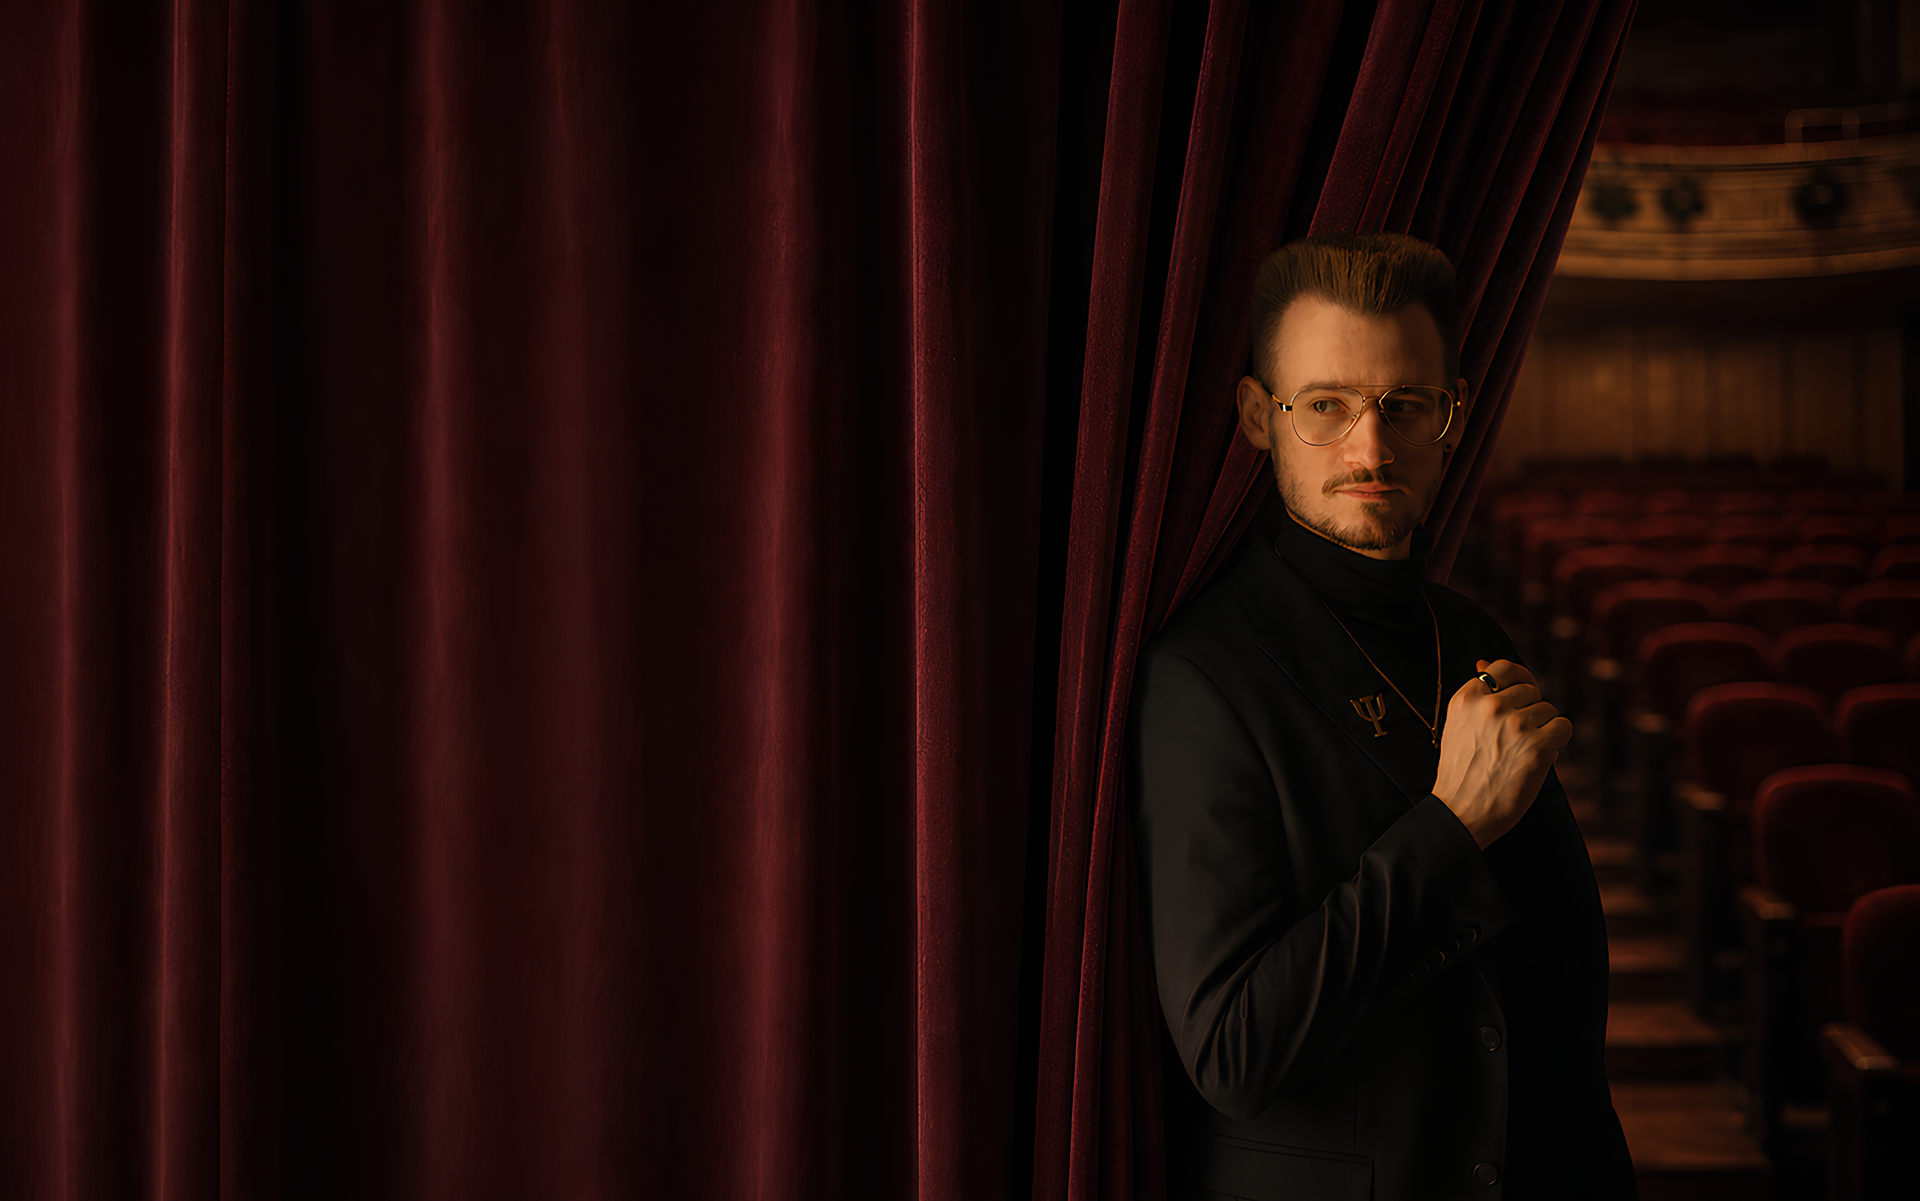
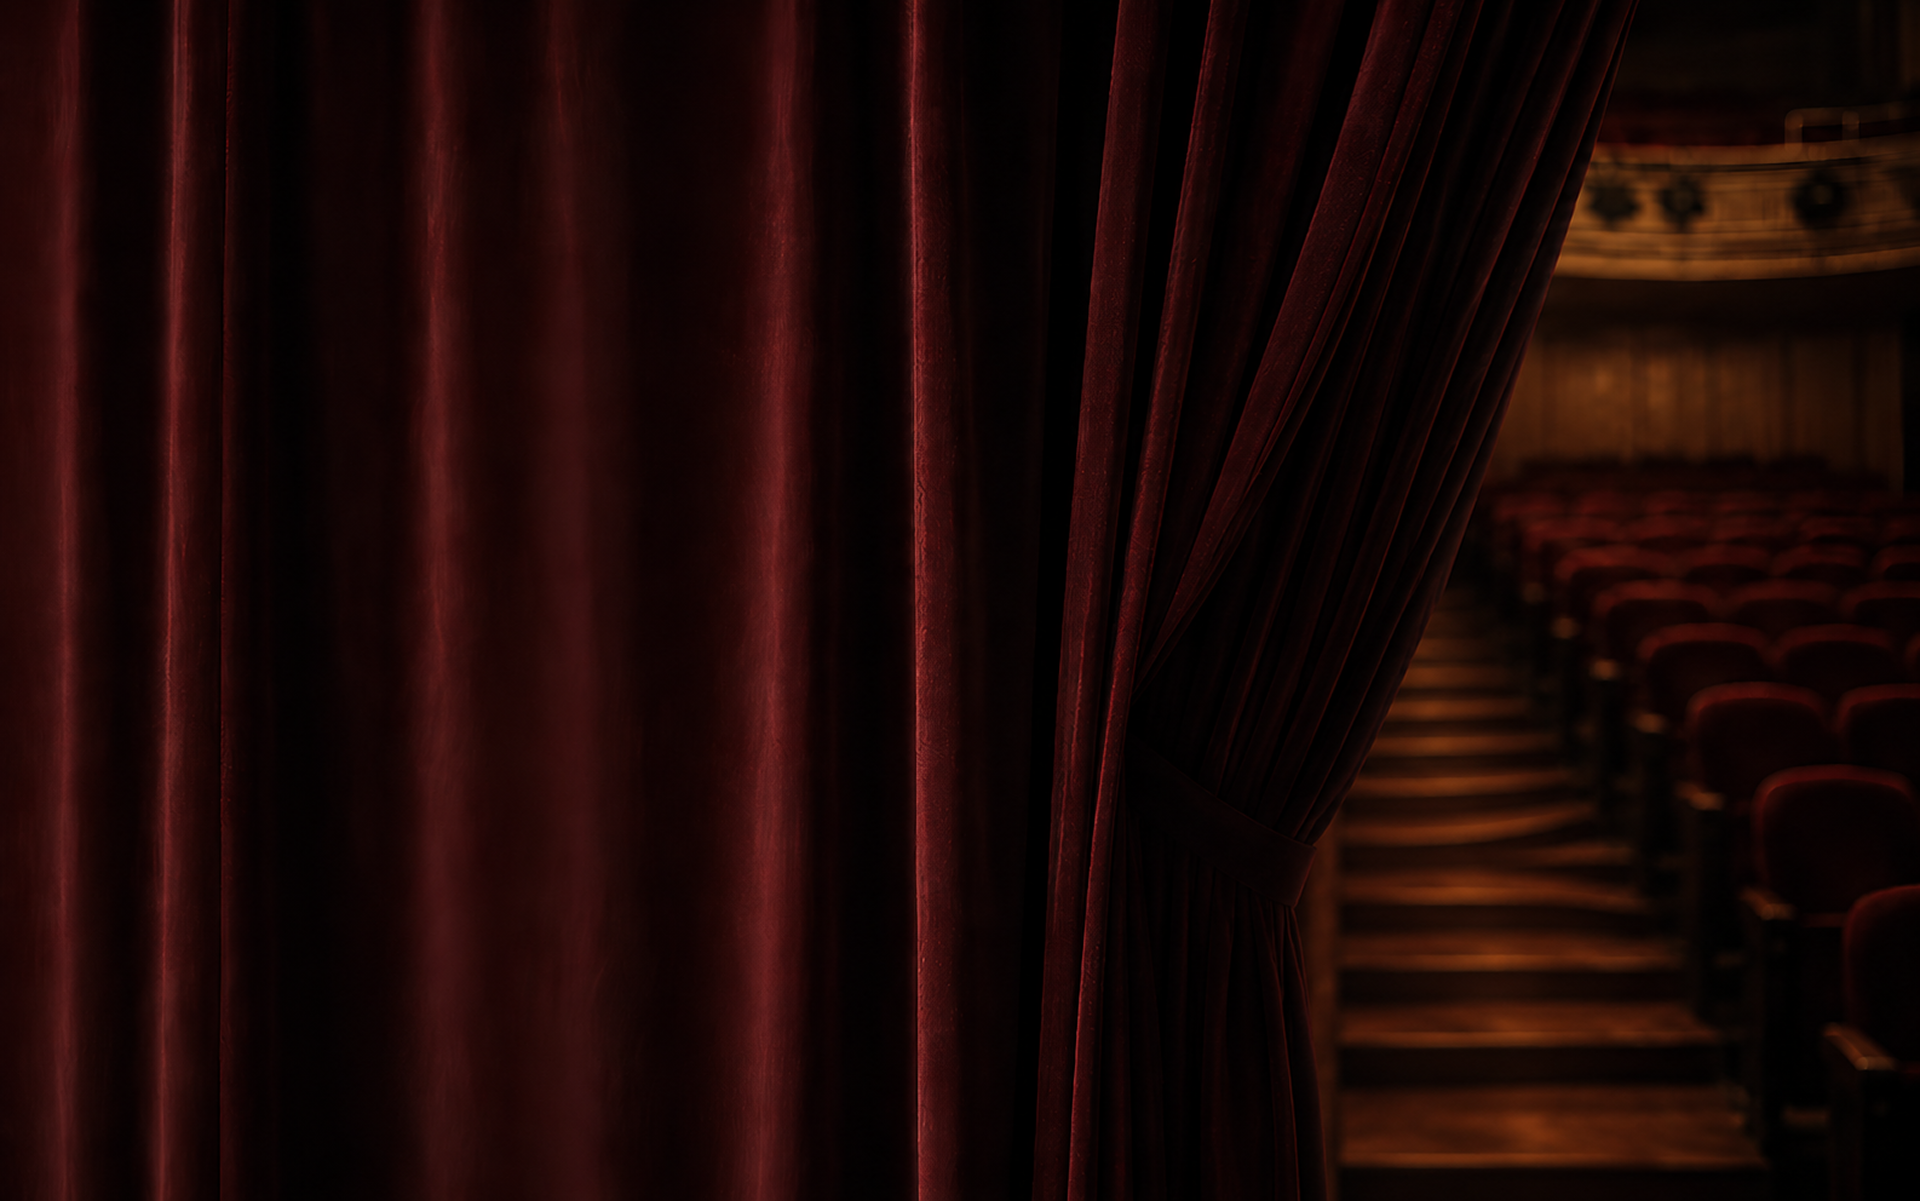
feat: add parallax effect for desktop

Changed region(s): [[0.5938, 0.4929, 0.8438, 0.9858], [0.625, 0.1848, 0.7812, 0.4621]]

diff --git a/src/modules/landing/components/hero/hero.component.scss b/src/modules/landing/components/hero/hero.component.scss
@@ -76,7 +76,24 @@
   }
 
   &__character {
-    display: none;
+    display: block;
+    position: absolute;
+    bottom: 0;
+    left: 0;
+    width: 100%;
+    height: 100%;
+    z-index: 1;
+    background-image: url("/assets/images/hero.png");
+    background-position: calc(50% + 440px) bottom;
+    background-repeat: no-repeat;
+    background-size: auto;
+    pointer-events: none;
+    will-change: transform;
+
+    @media (max-width: 950px) {
+      background-position: calc(50% + 260px) bottom;
+
+    }
 
     @media (max-width: 768px) {
       display: block;
@@ -86,7 +103,7 @@
       width: 100%;
       height: 100%;
       z-index: 1;
-      background-image: url("/assets/images/hero.png");
+      background-image: url("/assets/images/hero-768.png");
       background-position: center bottom;
       background-repeat: no-repeat;
       background-size: auto;

diff --git a/src/modules/landing/components/hero/hero.component.ts b/src/modules/landing/components/hero/hero.component.ts
@@ -128,9 +128,6 @@ export class HeroSectionComponent implements AfterViewInit, OnDestroy {
   }
 
   private initParallax(): void {
-    const isMobile = window.matchMedia('(max-width: 768px)').matches;
-    if (!isMobile) return;
-
     const heroEl = document.getElementById('hero');
     const bgEl = this.heroBg()?.nativeElement;
     const logoBgEl = this.logoBg()?.nativeElement;
